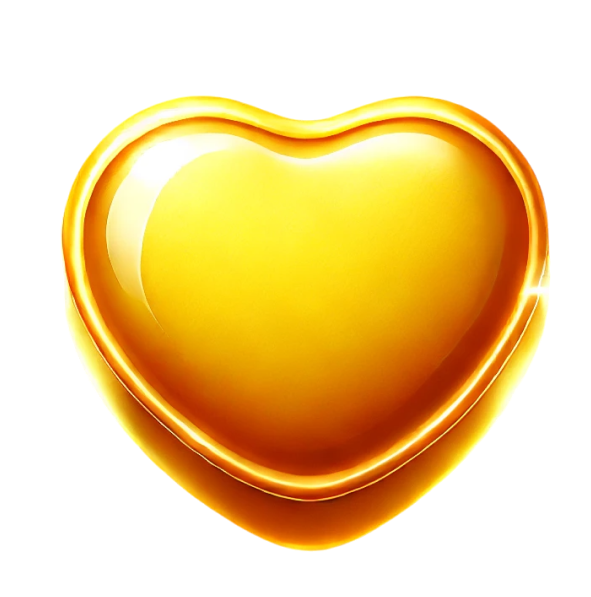
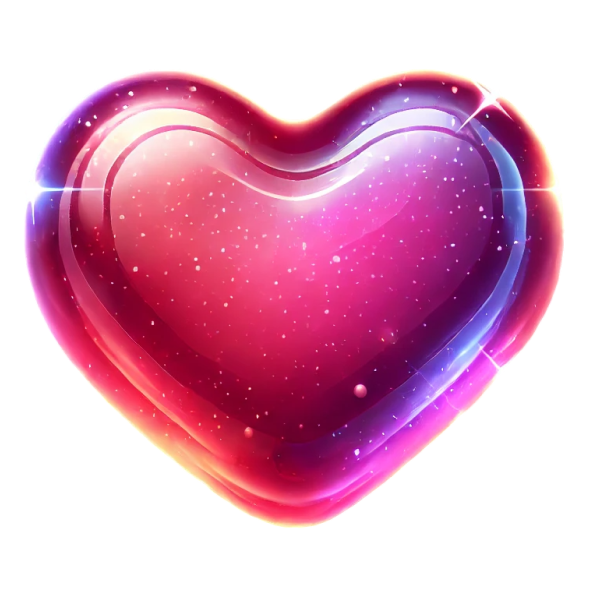
adding design and basic game logic

diff --git a/enemy.js b/enemy.js
@@ -14,8 +14,11 @@ class CottonCandyCloud extends Interactable {
 
     // Override the crash behavior
     handleCrash() {
+
+        game.isGameOver = true;
+        game.gameOverScreen.style.display = "flex";
         // Slow the player down
-        player.speed = player.speed / 5; // Slow down the player
+/*         player.speed = player.speed / 5; // Slow down the player
         setTimeout(() => {
             player.speed *= 5; // Restore speed after 5 seconds or any desired duration
         }, 3000);
@@ -24,7 +27,7 @@ class CottonCandyCloud extends Interactable {
         } else {
             game.score = 0;
             game.updateScore();
-        }
+        } */
     }
 
     handleBullet() {
@@ -36,7 +39,7 @@ class CottonCandyCloud extends Interactable {
 function createCottonCandyCloud(){
     new CottonCandyCloud(1);
     }
-setInterval(createCottonCandyCloud, 6000);
+setInterval(createCottonCandyCloud, 10000);
 
 
 //// Candy Lightning Bolts class inheriting from Interactable
@@ -80,7 +83,7 @@ class CandyLighteningBolt extends Interactable {
 function createCandyLighteningBolt(){
     new CandyLighteningBolt(.75);
     }
-setInterval(createCandyLighteningBolt, 9000);
+/* setInterval(createCandyLighteningBolt, 9000); */
 
 
 
@@ -104,11 +107,16 @@ class CandyBandit extends Interactable {
     
     // Override the crash behavior
     handleCrash() {
-        // Slow the player down
+        player.speed = player.speed / 5; // Slow down the player
+        setTimeout(() => {
+            player.speed *= 5; // Restore speed after 5 seconds or any desired duration
+        }, 3000);
+        // Lose a life
         game.decreaseLives(1);
     }
 
     handleBullet() {
+        // Slow the player down
         game.increaseScore(20);
     }
     
@@ -117,4 +125,4 @@ class CandyBandit extends Interactable {
 function createCandyBandit(){
     new CandyBandit(1);
     }
-setInterval(createCandyBandit, 10000);
+setInterval(createCandyBandit, 6000);

diff --git a/styles/style.css b/styles/style.css
@@ -148,7 +148,6 @@ z-index: 1;
 
 #how-screen {
     background-color: rgba(250, 202, 219, 0.3);
-
     position: absolute;
     background-size: cover; 
     background-position: center; 
@@ -194,6 +193,7 @@ z-index: 1;
 #how-card {
     font-family: Arial, Helvetica, sans-serif;
     display: flex;
+    max-height: 70vh;
     max-width: 90%; /* Constrain width */
     position: relative;
     margin: auto;
@@ -261,6 +261,10 @@ z-index: 1;
 
 .enemies-section, .power-section {
     display: flex;
+    flex-direction: column;
+    justify-content: center;
+    align-items: center;
+    gap: 10px;
 
 }
 
@@ -276,7 +280,7 @@ z-index: 1;
 }
 
 .enemy-item img, .power-up-item img {
-    max-width: 50px;
+    max-width: 100px;
     margin-bottom: 5px;
 }
 
@@ -320,7 +324,7 @@ text-shadow: 1px 1px 2px #000000, 0 0 1em #FF1887,
 
 
 #player {
-    background-image: url("../assets/player-v1.png");
+    background-image: url("../assets/player-v4.png");
     position: absolute;
     background-size: cover; /* or contain */
     background-position: center; /* Adjust as needed */
@@ -340,7 +344,7 @@ text-shadow: 1px 1px 2px #000000, 0 0 1em #FF1887,
     height: 65px;
     width: 65px;
     position: absolute;
-    background-image: url("../assets/candyCaneCloud.png");
+    background-image: url("../assets/cottonCandyCloud.png");
     position: absolute;
     background-size: cover; /* or contain */
     background-position: center; /* Adjust as needed */
@@ -392,7 +396,7 @@ text-shadow: 1px 1px 2px #000000, 0 0 1em #FF1887,
     height: 40px;
     width: 40px;
     position: absolute;
-    background-image: url("../assets/candyHeart.png");
+    background-image: url("../assets/candyHeart2.png");
     background-size: cover; 
     background-position: center; 
 }

diff --git a/powerup.js b/powerup.js
@@ -27,7 +27,7 @@ class CandyCoin extends Interactable {
 function createCandyCoin(){
     new CandyCoin(1);
     }
-setInterval(createCandyCoin, 3500);
+/* setInterval(createCandyCoin, 3500); */
 
 
 // Lollipop Token class inheriting from Interactable
@@ -57,9 +57,9 @@ class LollipopToken extends Interactable {
 }
 
 function createLollipopToken(){
-    new LollipopToken(1.5);
+    new LollipopToken(1);
     }
-setInterval(createLollipopToken, 8000);
+setInterval(createLollipopToken, 3050);
 
 
 
@@ -90,6 +90,6 @@ class CandyHeart extends Interactable {
 }
 
 function createCandyHeart(){
-    new CandyHeart(1.5);
+    new CandyHeart(1);
     }
-setInterval(createCandyHeart, 9000);
+setInterval(createCandyHeart, 12000);

diff --git a/game.js b/game.js
@@ -2,7 +2,7 @@ class Game {
     constructor() {
       this.isGameOver = false;
       this.score = 0;
-      this.lives = 1;
+      this.lives = 5;
       this.level = 1;
       this.gameArea = document.querySelector("#game-area");
       this.width = this.gameArea.getBoundingClientRect().width;
@@ -24,6 +24,9 @@ class Game {
 
     updateLevel() {
       this.levelElement.innerText = this.level.toString();
+      if (this.level >= 5 ) {
+        setInterval(createCandyLighteningBolt, 9000);
+      }
       }
 
 

diff --git a/game-logic.js b/game-logic.js
@@ -89,9 +89,9 @@ document.addEventListener("keydown", (e) => {
       if (frames % 2000 === 0) {
         game.level++;
         game.updateLevel();
-        setInterval(createCandyLighteningBolt, 30000)
+        setInterval(createCandyLighteningBolt, 20000)
         setInterval(createCandyBandit, 10000);
-        setInterval(createCandyCoin, 20000)
+        setInterval(createCottonCandyCloud, 30000);
       } 
 
       

diff --git a/README.md b/README.md
@@ -69,10 +69,13 @@ The Player can gain points by collecting candy. They can also gain lives by coll
 - don't let interactables appear on top of one another
 
 ## Left Off 
+- Deploy as live versions usually always have bugs.
 - Does my player need to be able to officially win? Scoring points? + level ups?
 - Get better icon for bullet, player, heart, etc.
 - change levels, wait to call functions for certain levels using a conditional?
 - Change game over screen to match start screen
-- Fix how to screen (scrolling, general formatting. add font, cancel button?)
+- Fix how to screen (scrolling, general formatting. add font, cancel button?) .enemies-section, .power-section
 - Add screen shake on crash
 - Add music
+
+- Stand up - ask about deploying 
